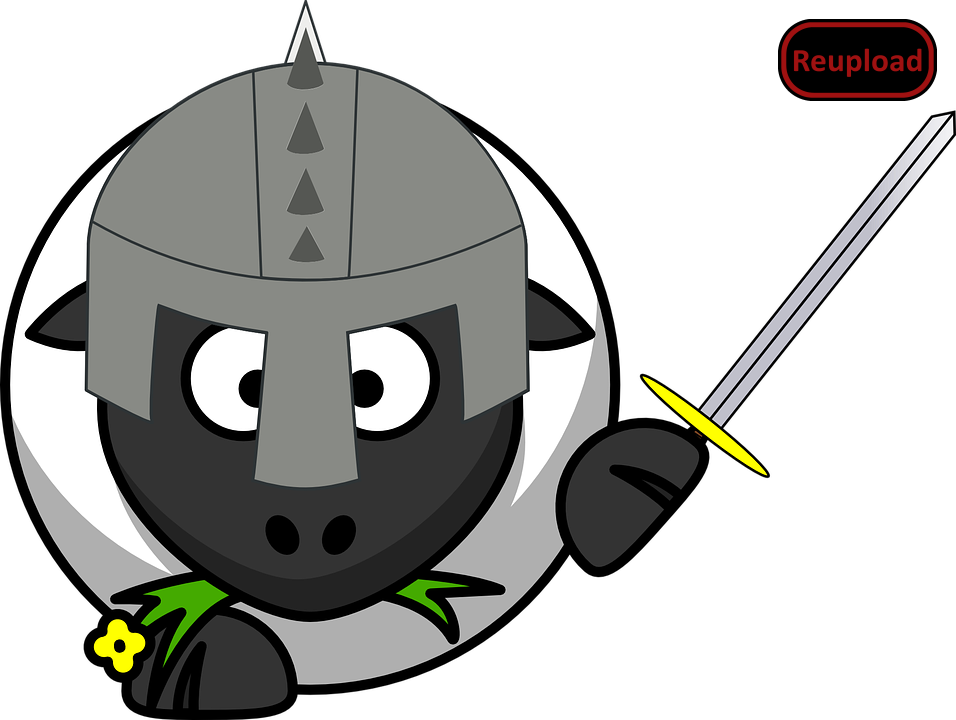
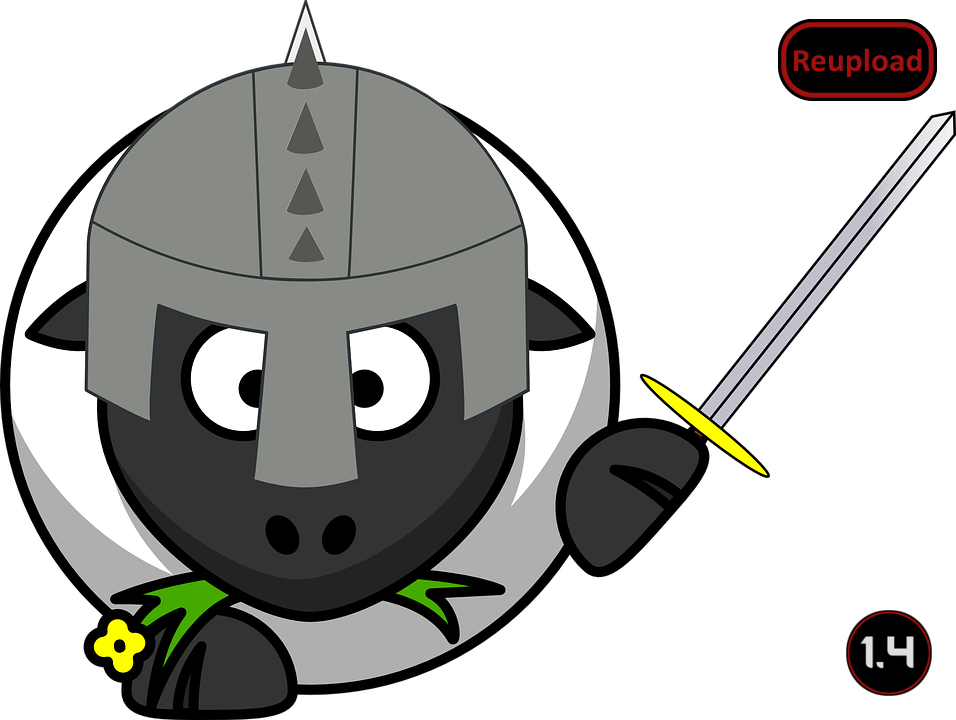
Last update, added end-of-life message

Changed region(s): [[0.8797, 0.825, 1.0, 0.9778]]

diff --git a/README.md b/README.md
@@ -5,7 +5,7 @@
 Update of jaeger972 a.k.a. Mercers mod
 https://steamcommunity.com/sharedfiles/filedetails/?id=1087223311
 
-![Image](https://i.imgur.com/pufA0kM.png)
+![Image](https://i.imgur.com/KFjAmff.png)
 
 	
 ![Image](https://i.imgur.com/Z4GOv8H.png)
@@ -28,12 +28,13 @@ shoutout to #NotAMillennial for letting me use his icon from www.computersheep.c
 
 -  See if the the error persists if you just have this mod and its requirements active.
 -  If not, try adding your other mods until it happens again.
--  Post your error-log using https://steamcommunity.com/workshop/filedetails/?id=818773962]HugsLib and command Ctrl+F12
+-  Post your error-log using https://steamcommunity.com/workshop/filedetails/?id=818773962]HugsLib or the standalone https://steamcommunity.com/sharedfiles/filedetails/?id=2873415404]Uploader and command Ctrl+F12
 -  For best support, please use the Discord-channel for error-reporting.
 -  Do not report errors by making a discussion-thread, I get no notification of that.
 -  If you have the solution for a problem, please post it to the GitHub repository.
+-  Use https://github.com/RimSort/RimSort/releases/latest]RimSort to sort your mods
 
 
 
+https://steamcommunity.com/sharedfiles/filedetails/changelog/2474916110]![Image](https://img.shields.io/github/v/release/emipa606/BuldinnOviumProgenies?label=latest%20version&style=plastic&color=9f1111&labelColor=black)
 
-https://steamcommunity.com/sharedfiles/filedetails/changelog/2474916110]Last updated 2023-01-09
